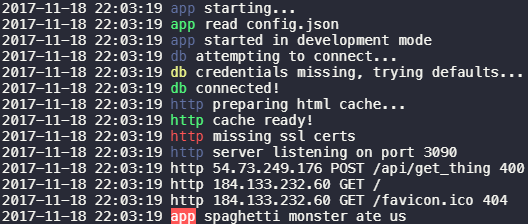
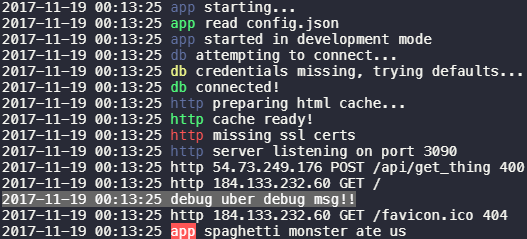
add debug

diff --git a/README.md b/README.md
@@ -55,6 +55,8 @@ log.error("http", "missing ssl certs")
 log.info("http", "server listening on port 3090")
 log.trace("http", "54.73.249.176 POST /api/get_thing 400")
 log.trace("http", "184.133.232.60 GET /")
+# debug wont show in logfile
+log.debug("uber debug msg!!")
 log.trace("http", "184.133.232.60 GET /favicon.ico 404")
 log.fatal("app", "spaghetti monster ate us")
 ```
